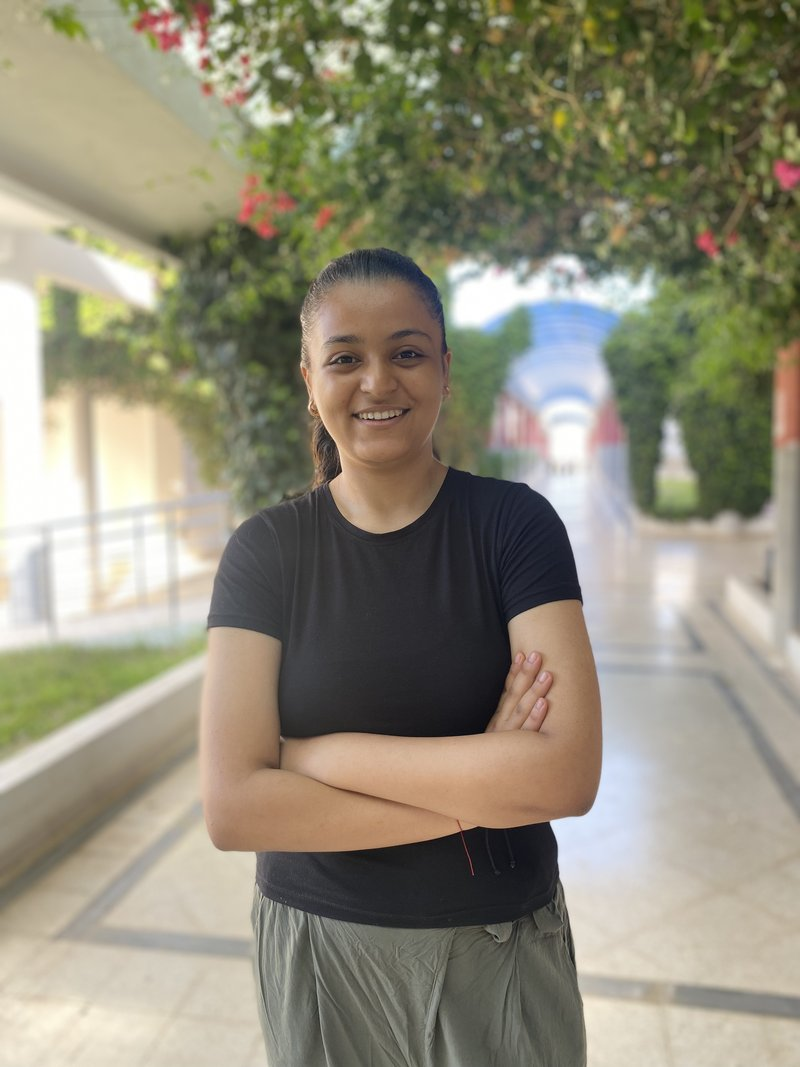
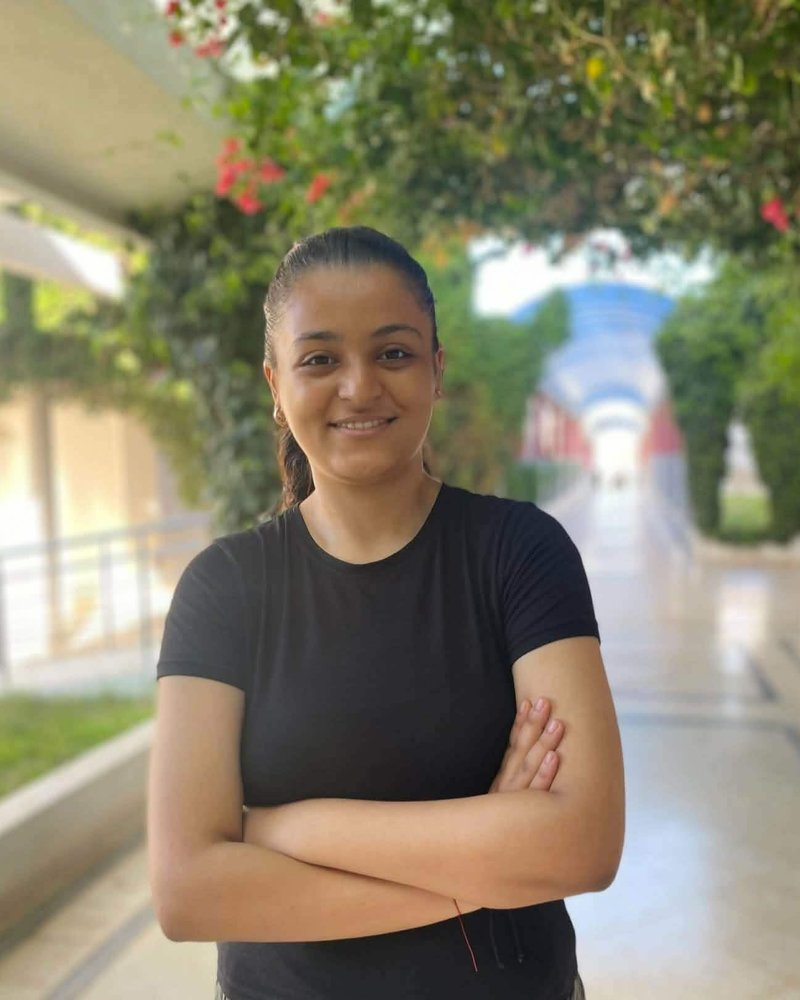
fixed rihabs photo

diff --git a/src/data/people.ts b/src/data/people.ts
@@ -243,6 +243,7 @@ export const people: Record<string, Member> = {
         L('JavaScript', 'JavaScript'),
         L('Notions of digital telecommunications and digital systems', 'Notions en télécommunications numériques et en systèmes numériques'),
         L('Video editing', 'Montage vidéo'),
+        L('Advanced video editing with CapCut', 'Montage vidéo avancé avec CapCut'),
         L('AI-assisted editing (video and photo)', 'Montage assisté par IA (vidéo et photo)'),
         L('Suno (AI music generation)', 'Suno (génération musicale par IA)'),
         L('Google Flow (AI video generation)', 'Google Flow (génération vidéo par IA)'),
@@ -269,6 +270,7 @@ export const people: Record<string, Member> = {
       L('Cybersecurity', 'Cybersécurité'),
       L('Music and guitar', 'Musique et guitare'),
       L('Gaming - League of Legends (Master)', 'Jeux vidéo - League of Legends (rang Maître)'),
+      L('Gym and calisthenics', 'Musculation et callisthénie'),
     ],
     projects: [
       {
